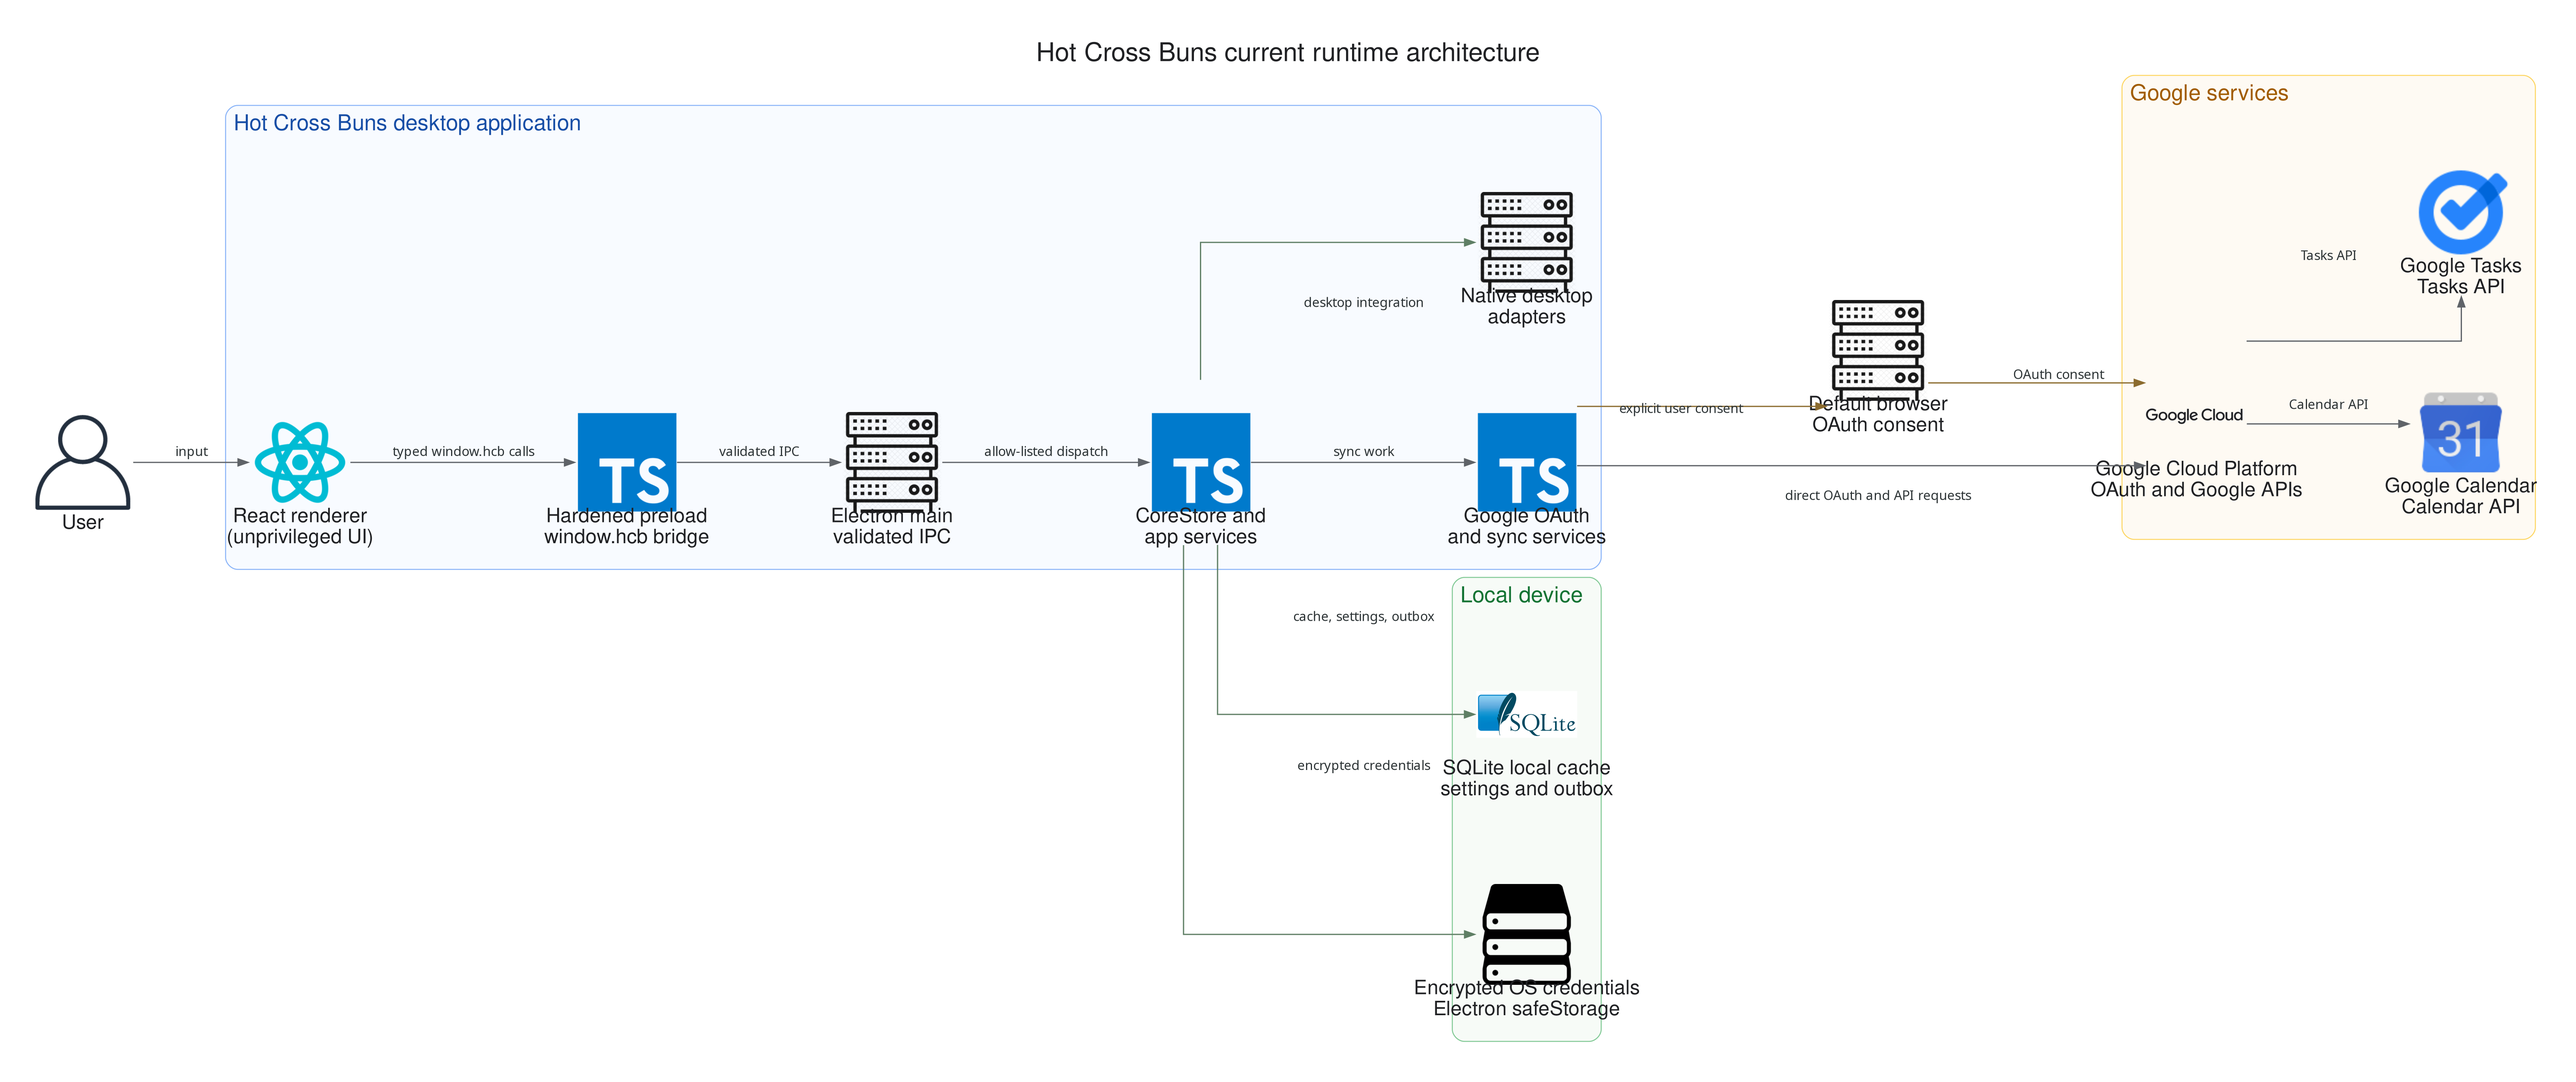
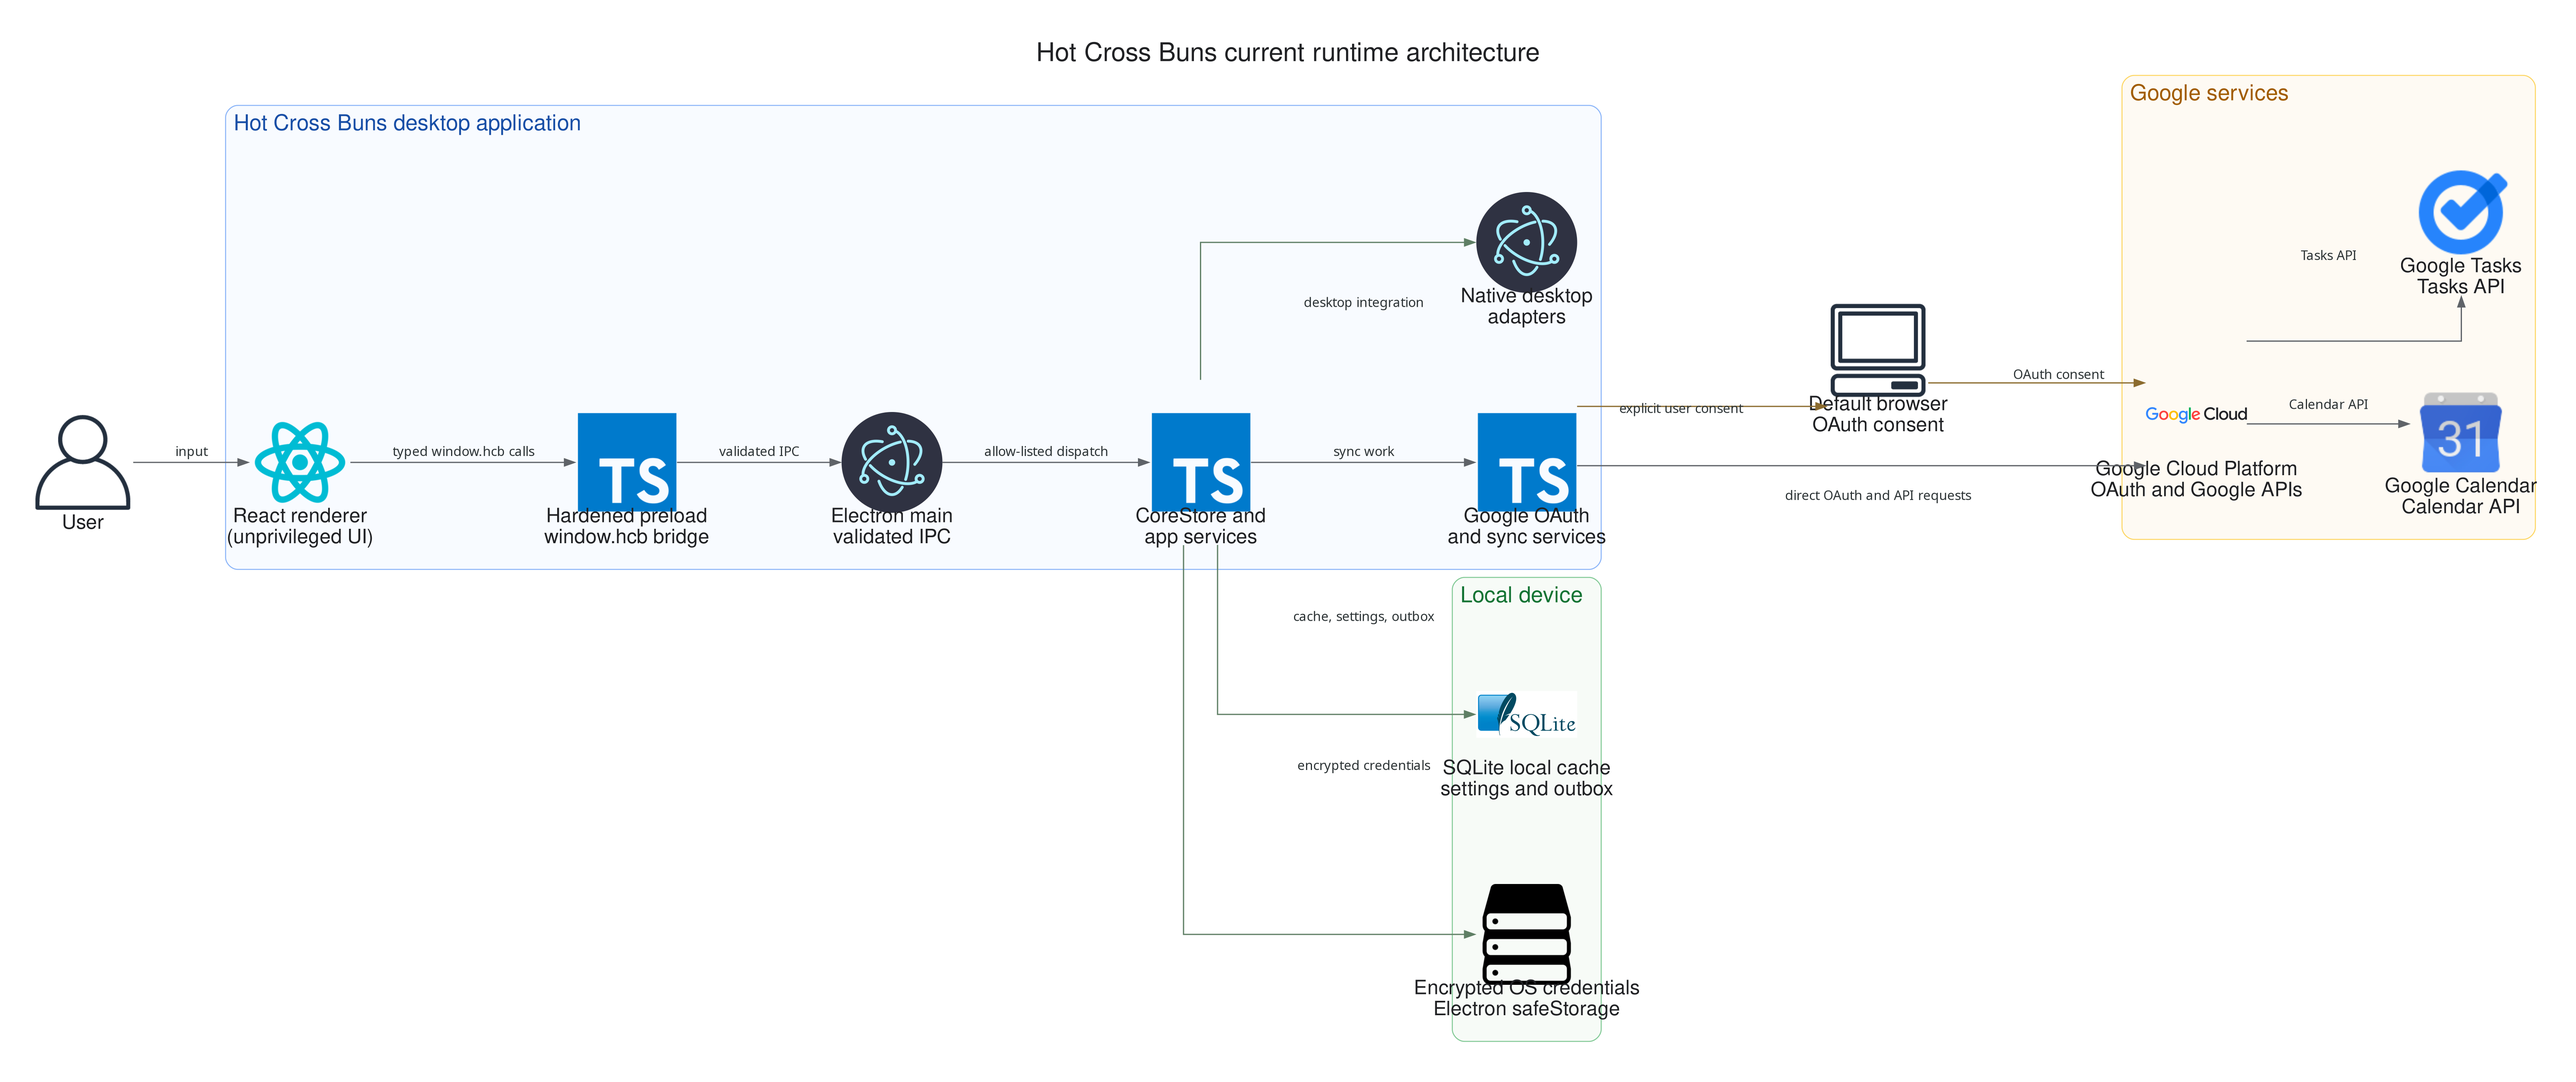
callitaday

diff --git a/scripts/generate_architecture_diagram.py b/scripts/generate_architecture_diagram.py
@@ -11,14 +11,14 @@ from pathlib import Path
 
 from diagrams import Cluster, Diagram, Edge
 from diagrams.custom import Custom
-from diagrams.generic.compute import Rack
 from diagrams.generic.storage import Storage
-from diagrams.onprem.client import User
+from diagrams.onprem.client import Client, User
 from diagrams.programming.framework import React
 from diagrams.programming.language import TypeScript
 
 ROOT = Path(__file__).resolve().parent.parent
 OUTPUT = ROOT / "docs/assets/hot-cross-buns-architecture.png"
+ELECTRON_LOGO = ROOT / "docs/assets/architecture-icons/electron.png"
 GOOGLE_CLOUD_LOGO = ROOT / "docs/assets/architecture-icons/google-cloud.png"
 SQLITE_LOGO = ROOT / "docs/assets/architecture-icons/sqlite.png"
 GOOGLE_CALENDAR_LOGO = ROOT / "src/renderer/src/assets/google-calendar.png"
@@ -90,10 +90,10 @@ def render(target: Path) -> None:
         ):
             renderer = React("React renderer\n(unprivileged UI)")
             preload = TypeScript("Hardened preload\nwindow.hcb bridge")
-            ipc = Rack("Electron main\nvalidated IPC")
+            ipc = icon("Electron main\nvalidated IPC", ELECTRON_LOGO, width="1.45", height="1.45")
             core = TypeScript("CoreStore and\napp services")
             sync = TypeScript("Google OAuth\nand sync services")
-            native = Rack("Native desktop\nadapters")
+            native = icon("Native desktop\nadapters", ELECTRON_LOGO, width="1.45", height="1.45")
 
         with Cluster(
             "Local device",
@@ -109,7 +109,7 @@ def render(target: Path) -> None:
             sqlite = icon("SQLite local cache\nsettings and outbox", SQLITE_LOGO, width="2.2", height="1.05")
             credentials = Storage("Encrypted OS credentials\nElectron safeStorage")
 
-        browser = Rack("Default browser\nOAuth consent")
+        browser = Client("Default browser\nOAuth consent")
 
         with Cluster(
             "Google services",
@@ -125,8 +125,8 @@ def render(target: Path) -> None:
             cloud = icon(
                 "Google Cloud Platform\nOAuth and Google APIs",
                 GOOGLE_CLOUD_LOGO,
-                width="2.7",
-                height="1.05",
+                width="5.0",
+                height="0.82",
             )
             calendar = icon("Google Calendar\nCalendar API", GOOGLE_CALENDAR_LOGO)
             tasks = icon("Google Tasks\nTasks API", GOOGLE_TASKS_LOGO)

diff --git a/docs/architecture/diagram-workflow.md b/docs/architecture/diagram-workflow.md
@@ -6,7 +6,7 @@ The current architecture diagram is generated with the Python `diagrams-as-code`
 
 Edit [../../scripts/generate_architecture_diagram.py](../../scripts/generate_architecture_diagram.py), then generate [../assets/hot-cross-buns-architecture.png](../assets/hot-cross-buns-architecture.png). Do not edit the PNG directly.
 
-The generator uses the app's checked-in Google Calendar and Google Tasks assets, plus checked-in Google Cloud and SQLite marks in [../assets/architecture-icons](../assets/architecture-icons). The Google Cloud mark comes from [Google Cloud's official brand asset](https://www.gstatic.com/cgc/email/google-cloud-v2.png); the SQLite mark comes from the [official SQLite source mirror](https://github.com/sqlite/sqlite/blob/master/art/sqlite370.jpg).
+The generator uses the app's checked-in Google Calendar and Google Tasks assets, plus checked-in Electron, Google Cloud, and SQLite marks in [../assets/architecture-icons](../assets/architecture-icons). The Electron mark comes from [Electron's official site](https://www.electronjs.org/assets/img/logo.svg), the Google Cloud mark comes from [Google Cloud's official brand asset](https://www.gstatic.com/cgc/google-cloud-logo-fullcolor.svg), and the SQLite mark comes from the [official SQLite source mirror](https://github.com/sqlite/sqlite/blob/master/art/sqlite370.jpg).
 
 The generator requires Python 3.11, Graphviz, and the dependency pinned in `requirements-architecture.txt`. `uv` provisions the compatible interpreter and isolated dependency environment automatically.
 
